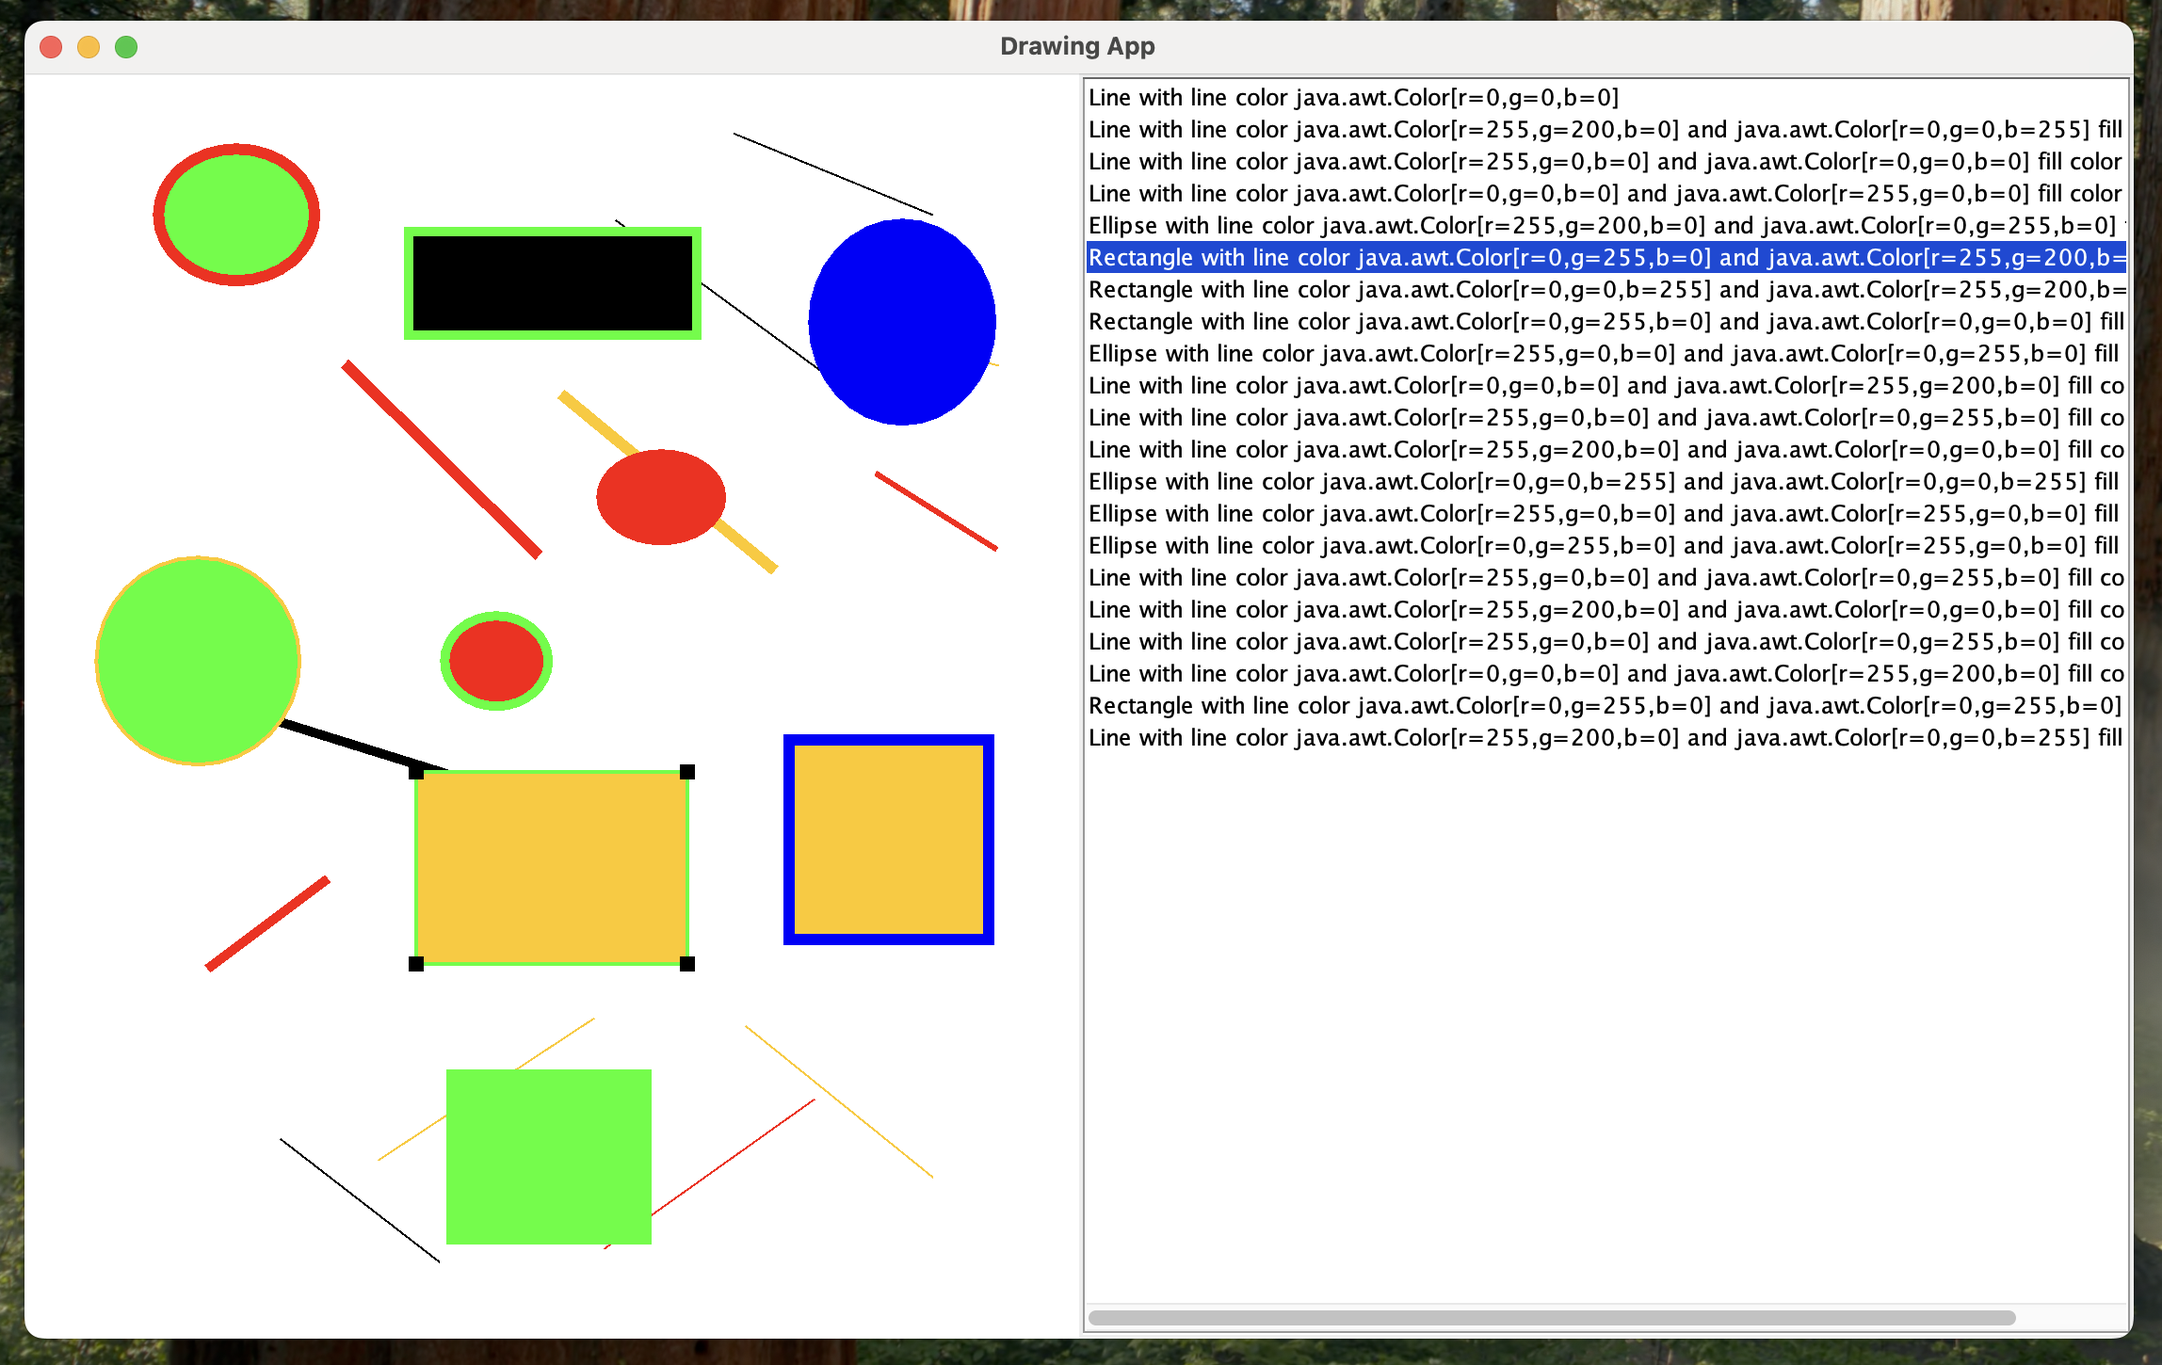
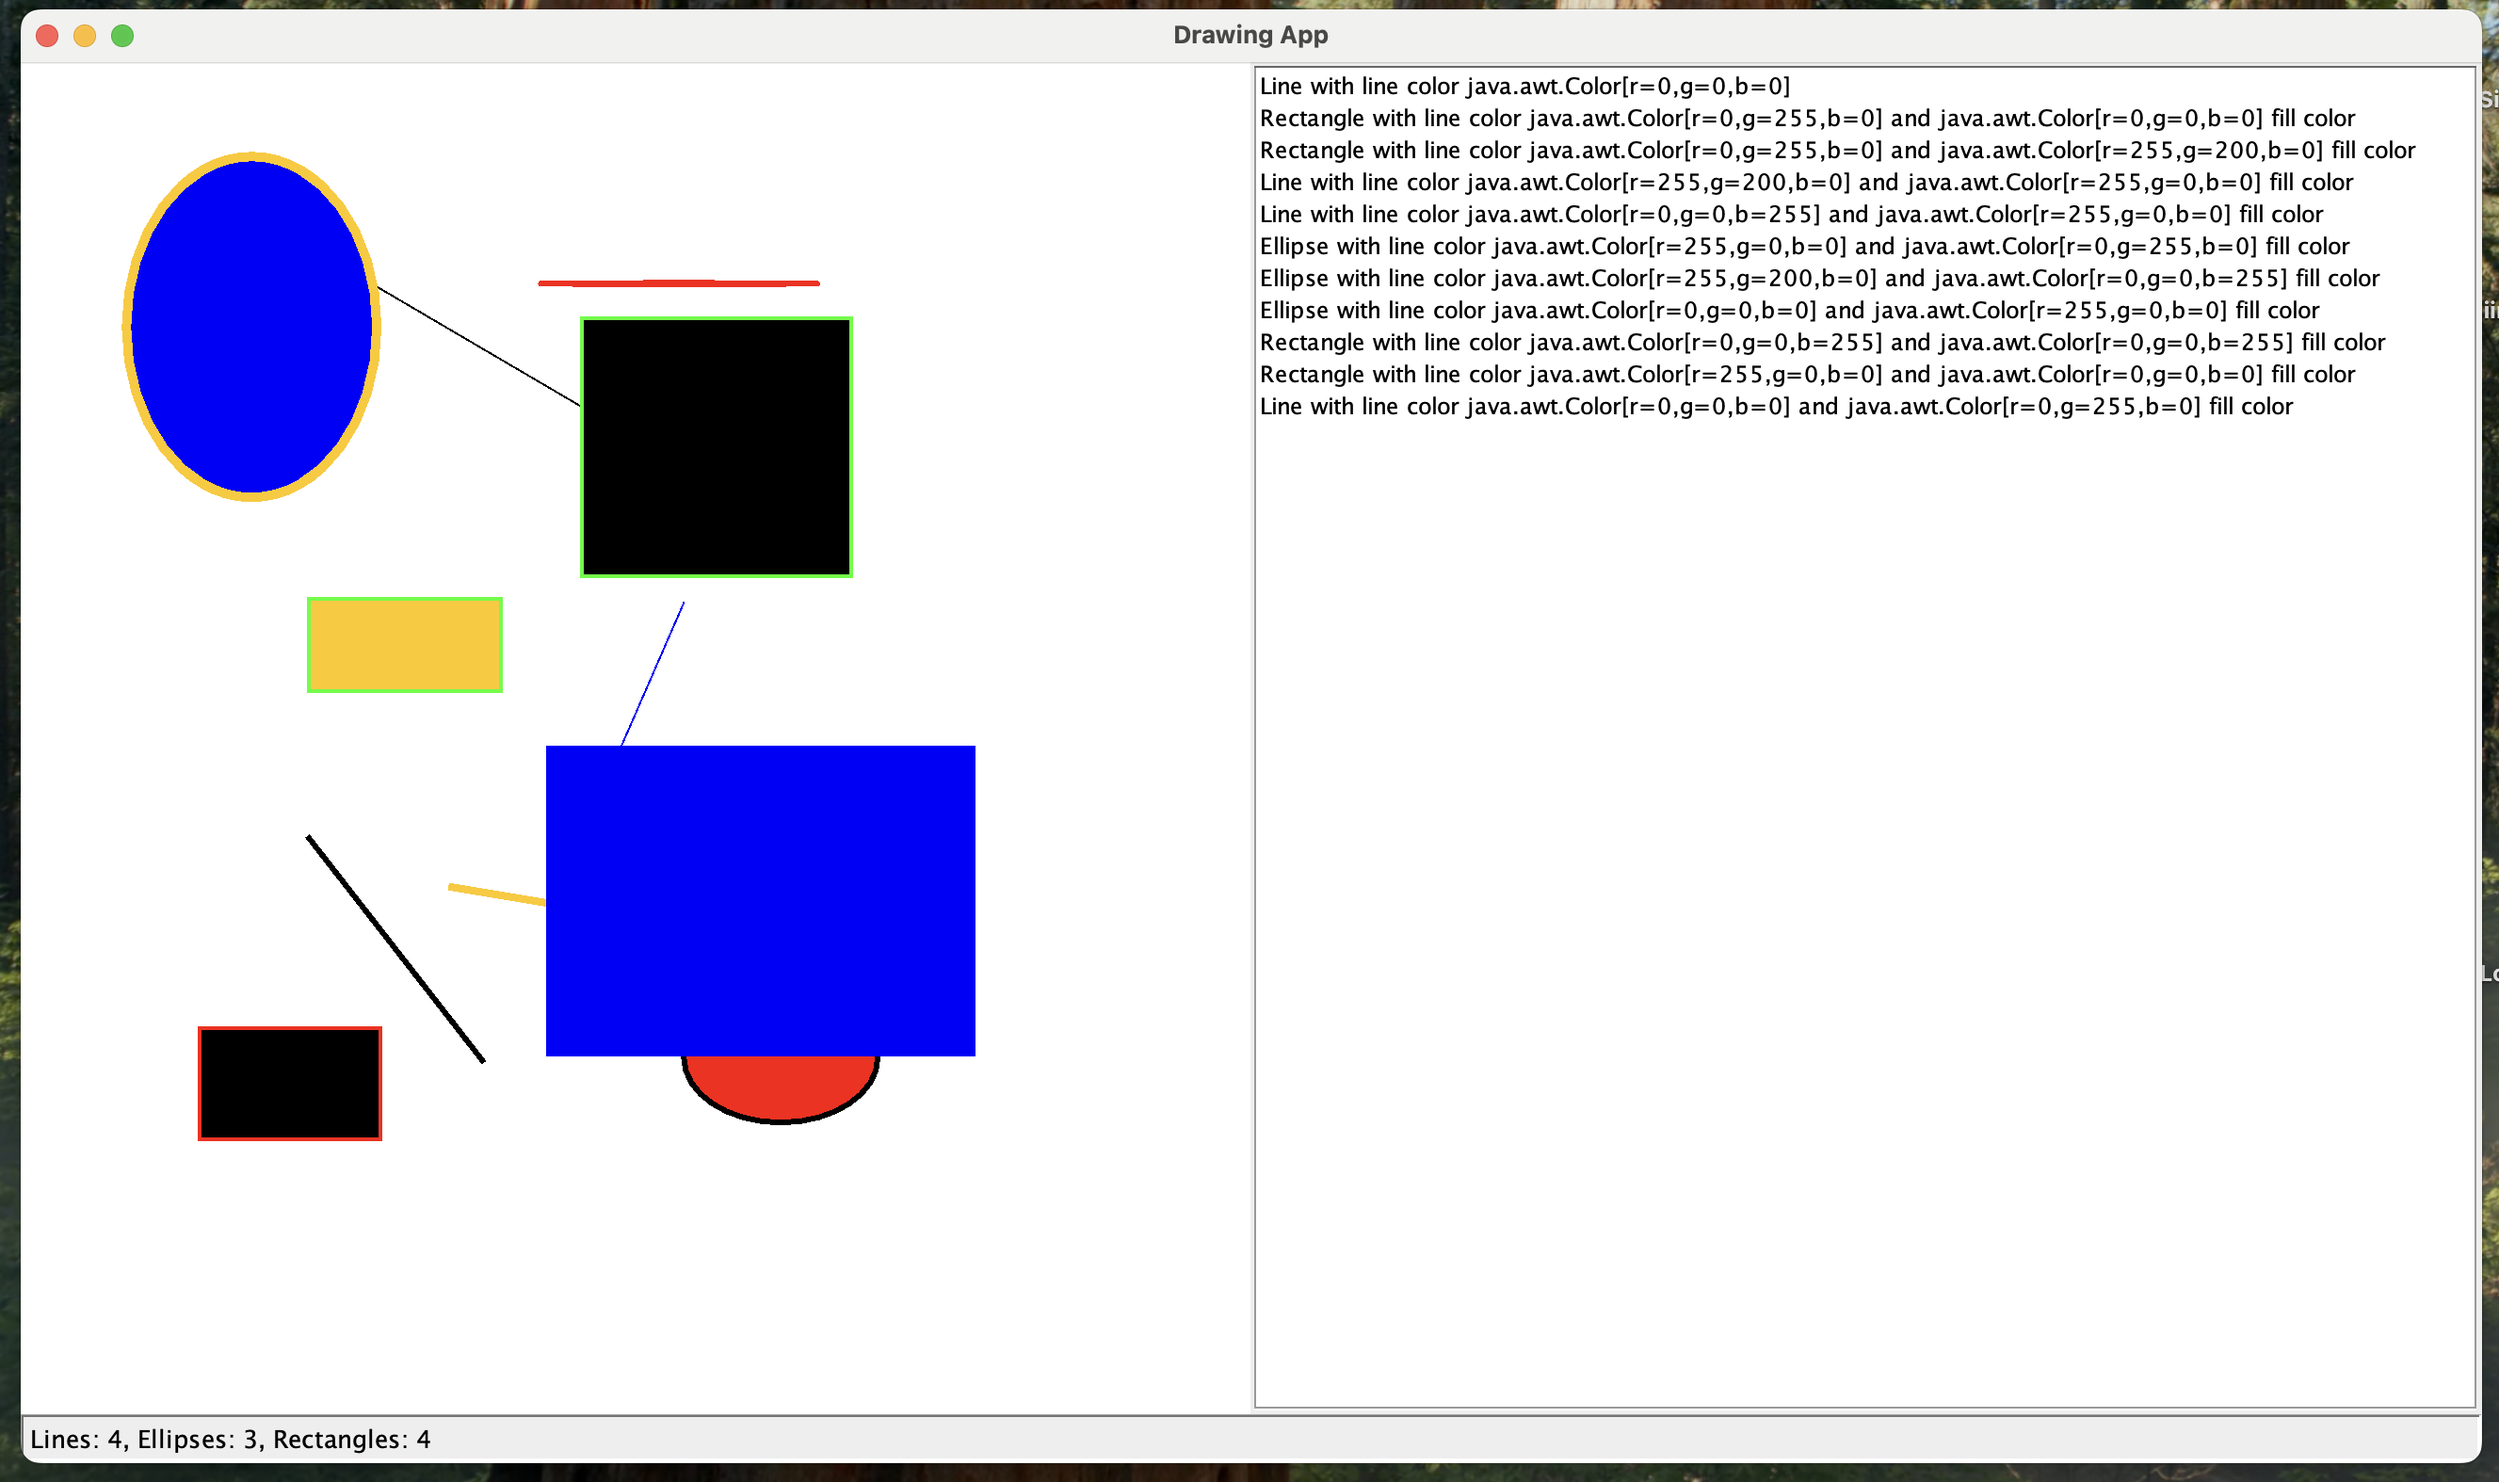
Added a 3rd view/Observer the StatusPanel

diff --git a/src/main/java/org/anttijuustila/drawingdemo/controller/DrawingDocument.java b/src/main/java/org/anttijuustila/drawingdemo/controller/DrawingDocument.java
@@ -16,6 +16,12 @@ import org.anttijuustila.drawingdemo.model.DrawingShape;
 
 public class DrawingDocument {
 	
+	public class StatsRecord {
+		public int lineCount = 0;
+		public int rectangleCount = 0;
+		public int ellipseCount = 0;
+	}
+
 	enum ToolType {
 		LINE,
 		RECTANGLE,
@@ -26,6 +32,8 @@ public class DrawingDocument {
 	final int [] randomLineWidths = { 1, 2, 3, 4, 5, 6 };
 
 	private List<DrawingShape> shapes = new ArrayList<>();
+	private StatsRecord stats = new StatsRecord();
+
 	private ToolType currentTool = ToolType.LINE;
 
 	private int currentLineWidth = 1;
@@ -75,6 +83,10 @@ public class DrawingDocument {
 		return shapes;
 	}
 
+	public StatsRecord getStats() {
+		return stats;
+	}
+
 	public DrawingShape getCurrentlyDrawnShape() {
 		return currentlyDrawnShape;
 	}
@@ -111,6 +123,19 @@ public class DrawingDocument {
 
 	private void addShape(final DrawingShape shape) {
 		shapes.add(shape);
+		switch (currentTool) {
+			case ELLIPSE:
+				stats.ellipseCount++;
+				break;
+			case LINE:
+				stats.lineCount++;
+				break;
+			case RECTANGLE:
+				stats.rectangleCount++;
+				break;
+			default:
+				break;
+		}
 	}
 
 	public DrawingShape createShape() {
@@ -167,6 +192,15 @@ public class DrawingDocument {
 	}
 
 	public void removeShape(int selectedIndex) {
+		final DrawingShape toRemove = shapes.get(selectedIndex);
+		final Shape shape = toRemove.getShape();
+		if (shape instanceof Line2D) {
+			stats.lineCount--;
+		} else if (shape instanceof Ellipse2D) {
+			stats.ellipseCount--;
+		} else if (shape instanceof Rectangle2D) {
+			stats.rectangleCount--;
+		}
 		shapes.remove(selectedIndex);
 		notifyObservers(ChangeEvent.CONTAINER_CHANGED, selectedIndex);
 	}

diff --git a/src/main/java/org/anttijuustila/drawingdemo/DrawingApp.java b/src/main/java/org/anttijuustila/drawingdemo/DrawingApp.java
@@ -1,5 +1,6 @@
 package org.anttijuustila.drawingdemo;
 
+import java.awt.BorderLayout;
 import java.awt.Container;
 import java.awt.Dimension;
 import java.awt.GridLayout;
@@ -7,11 +8,13 @@ import java.awt.Point;
 import java.awt.Toolkit;
 
 import javax.swing.JFrame;
+import javax.swing.JPanel;
 import javax.swing.WindowConstants;
 
 import org.anttijuustila.drawingdemo.controller.DrawingDocument;
 import org.anttijuustila.drawingdemo.view.DrawingPanel;
 import org.anttijuustila.drawingdemo.view.ListPanel;
+import org.anttijuustila.drawingdemo.view.StatusPanel;
 
 /**
  * Hello world!
@@ -35,12 +38,17 @@ public class DrawingApp
         mainFrame.setDefaultCloseOperation(WindowConstants.EXIT_ON_CLOSE);
         
         Container rootPane = mainFrame.getContentPane();
-        rootPane.setLayout(new GridLayout(1,2));
+        rootPane.setLayout(new BorderLayout());
+
+        JPanel contentPanel = new JPanel(new GridLayout(1, 2));
         DrawingPanel drawingPanel = new DrawingPanel(document);
-        rootPane.add(drawingPanel, 0,0);
+        contentPanel.add(drawingPanel, 0,0);
 
         ListPanel listPanel = new ListPanel(document);
-        rootPane.add(listPanel, 0, 1);
+        contentPanel.add(listPanel, 0, 1);
+        rootPane.add(contentPanel, BorderLayout.CENTER);
+
+        rootPane.add(new StatusPanel(document), BorderLayout.SOUTH);
 
         Dimension screenSize = Toolkit.getDefaultToolkit().getScreenSize();
 

diff --git a/src/main/java/org/anttijuustila/drawingdemo/view/StatusPanel.java b/src/main/java/org/anttijuustila/drawingdemo/view/StatusPanel.java
@@ -1,0 +1,40 @@
+package org.anttijuustila.drawingdemo.view;
+
+import javax.swing.BorderFactory;
+import javax.swing.BoxLayout;
+import javax.swing.JLabel;
+import javax.swing.JPanel;
+import javax.swing.SwingConstants;
+import javax.swing.border.BevelBorder;
+
+import org.anttijuustila.drawingdemo.controller.DocumentObserver;
+import org.anttijuustila.drawingdemo.controller.DrawingDocument;
+
+public class StatusPanel extends JPanel implements DocumentObserver {
+
+	private JLabel statusLabel = new JLabel("Lines: 0, Ellipses: 0, Rectangles: 0");
+	private DrawingDocument document;
+
+	public StatusPanel(DrawingDocument document) {
+		super();
+		this.document = document;
+		this.document.addObserver(this);
+		setBorder(new BevelBorder(BevelBorder.LOWERED));
+		setLayout(new BoxLayout(this, BoxLayout.X_AXIS));
+		statusLabel.setHorizontalAlignment(SwingConstants.LEFT);
+		statusLabel.setBorder(BorderFactory.createEmptyBorder(3, 3, 3, 3));
+		add(statusLabel);
+	}
+
+	@Override
+	public void documentChanged() {
+		final DrawingDocument.StatsRecord stats = document.getStats();
+		final String text = String.format("Lines: %d, Ellipses: %d, Rectangles: %d", stats.lineCount, stats.ellipseCount, stats.rectangleCount);
+		statusLabel.setText(text);
+	}
+
+	@Override
+	public void selectionChanged(int whichSelected) {
+		// Nada
+	}
+}
